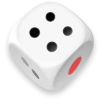
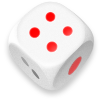
将骰子修改为闽南样式

diff --git a/README.md b/README.md
@@ -29,3 +29,11 @@ python3 server.py 8081
 ### 使用说明
 
 通过nginx配置的路径访问index.html
+
+### 备注
+
+骰子的原始图片来源于微信
+使用OpenCV和PS将四点修改为红色
+OpenCV修改方法：
+使用GIMP或PS的info palette获得要修改的像素位置，对这些像素，使用RGB除255的均值作为黑度，乘255作为红色程度（即将BGR设为[redness, redness, 255]），将R的值从255向下调可以将颜色继续加深（具体原理请查询RGB与HSL，HSV的关系，有许多在线可视化工具）
+PS修改方法参考[How To Change BLACK Into ANY COLOR In Photoshop](www.youtube.com/watch?v=pdCKweljMYQ)，混合方式选择颜色或变量，调整输出色阶的白色上界使选区边缘与骰子底色接近即可完成
